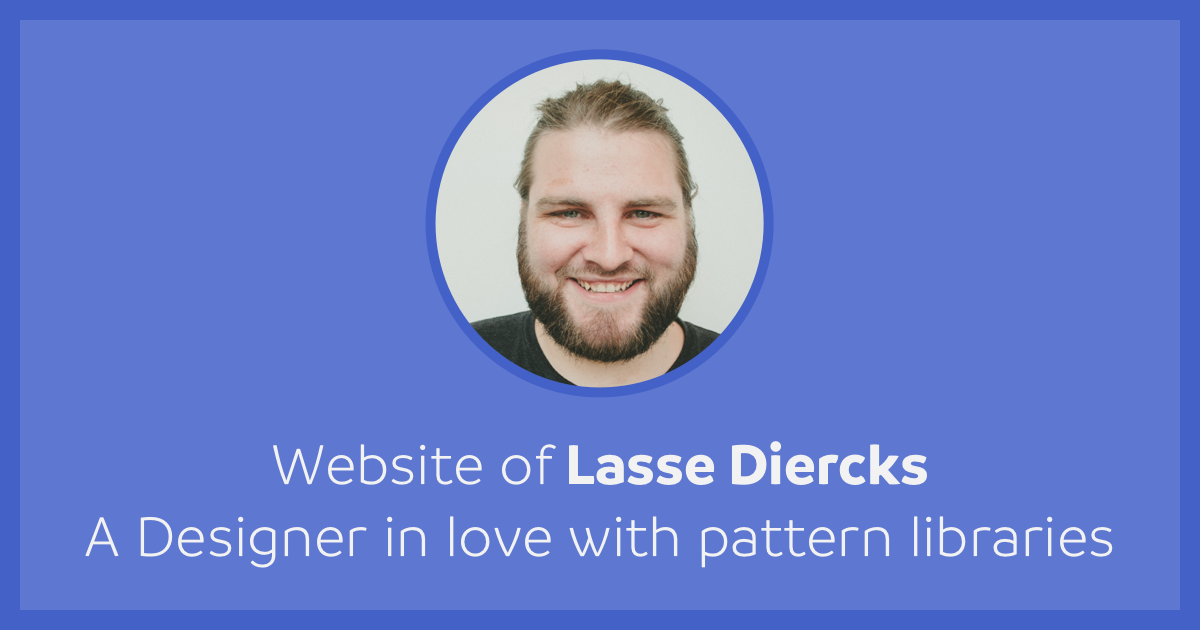
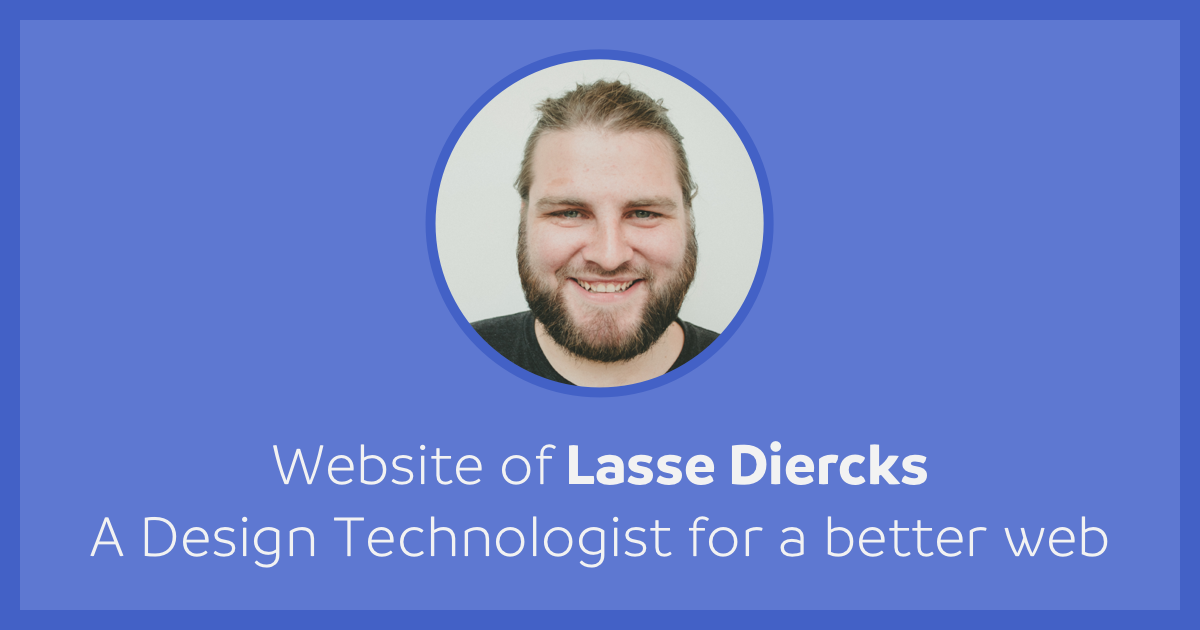
https://open.spotify.com/track/4NEHlq4GzG6VoLWpho0pIB

Changed region(s): [[0.0617, 0.8143, 0.925, 0.9048]]

diff --git a/index.html b/index.html
@@ -25,12 +25,12 @@ check it out here: http://lassediercks.github.io/design
   <meta name="viewport" content="width=device-width, initial-scale=1">
   <meta name="theme-color" content="#4361C6">
 
-  <title>Lasse Diercks | Designer</title>
-  <meta property="og:site_name" content="Lasse Diercks | Designer"/>
-  <meta property="og:title" content="Lasse Diercks | Designer"/>
+  <title>Lasse Diercks | Design Technologist</title>
+  <meta property="og:site_name" content="Lasse Diercks | Design Technologist"/>
+  <meta property="og:title" content="Lasse Diercks | Design Technologist"/>
 
-  <meta name="description" content="Designer with a love for pattern libraries.">
-  <meta property="og:description" content="Designer with a love for pattern libraries."/>
+  <meta name="description" content="Design Technologist working for a better web.">
+  <meta property="og:description" content="Design Technologist working for a better web."/>
   <meta property="og:image" content="http://lassediercks.de/img/open-graph.png?1">
   <meta property="og:image:width" content="1200">
   <meta property="og:image:height" content="630">
@@ -42,7 +42,7 @@ check it out here: http://lassediercks.github.io/design
   <meta name="twitter:image:width" content="750" />
   <meta name="twitter:image:height" content="560" />
   <meta name="twitter:title" content="Lasse Diercks" />
-  <meta name="twitter:description" content="Designer with a love for pattern libraries." />
+  <meta name="twitter:description" content="Design Technologist working for a better web." />
   <meta name="twitter:image" content="http://lassediercks.de/img/twitter.png" />
 
 
@@ -79,29 +79,28 @@ check it out here: http://lassediercks.github.io/design
   <a href="index.html#work" class="ld-topbar__item">Work</a>
   <a href="index.html#expertise" class="ld-topbar__item">Expertise</a>
   <a href="index.html#resume" class="ld-topbar__item">Resume</a>
-  <a href="mailto:hire@lassediercks.de" class="ld-topbar__item hld-cta">Contact</a>
+  <a href="mailto:hire@lassediercks.de?subject=Let's make the internet better, together." class="ld-topbar__item hld-cta">Hire me</a>
 </nav>
 
 
   <header class="hld-header">
     <img class="ld-avatar" src="http://lassediercks.github.io/design/images/profile-square_500.png" alt="A picture of a smiling Lasse Diercks">
     <h1 class="ld-headline">Lasse Diercks</h1>
-    <span class="">Designer | Hamburg, Germany<span class="print"> hire@lassediercks.de</span></span>
+    <span class="">Design Technologist | Hamburg, Germany<span class="print"> hire@lassediercks.de</span></span>
   </header>
 
   <main class="hld-content">
     <section class="hld-section" id="about">
-      <h2 class="ld-statement">I combine design thinking and technology to create consistent interfaces</h2>
+      <h2 class="ld-statement">I combine design thinking and technology to create awesome experiences</h2>
       <br><br>
       <p class="ld-paragraph ld-paragraph--centered">
-        I'm a Designer, I'm here to solve problems.
+        I'm here to solve problems.
         <br><br>
         My journey has taught me why prototyping is important, how to create kick-ass icons and what it's like to be a product owner.
         <br><br>
         5 Years at
         <a href="http://www.jimdo.com" class="ld-link">Jimdo, a website builder in Hamburg</a>, provided me with a learning focused and continuous-improvement mindset. When working on an Interface that is used to build websites you learn alot about almost every inch of the internet.
-        <br><br>We came a long way from tables and inline styling. Today, the technology allows us to create pattern-libraries that help us achieve behaviour, design and code consistency.
-        I want to build pattern-libraries for performant, usable and accessible Interfaces and would love to work inside a team that needs a helping hand with that.
+        <br><br>We came a long way from tables and inline styling. Today we create prototypes to communicate ideas, design-systems to achieve behaviour, design and code consistency and codepens to experiment with a few lines of code. I want to help designers with my technical point of view and developers with my design expertise to create awesome experiences.
         <br><br>
         Take a look around here and if you also think I add value to your product, <a href="mailto:hire@lassediercks.de" class="ld-link screen">let's get to know each other.</a> <span class="print">write a mail at hire@lassediercks.de</span>
       </p>
@@ -204,7 +203,7 @@ check it out here: http://lassediercks.github.io/design
       <h3 class="ld-headline">The next awesome Thing-Im-Proud-Of™</h3>
         <p class="ld-paragraph ld-pagraph--centered">Do you need some experienced hands on your pattern-library or need help creating one?
         </p>
-        <a href="mailto:hire@lassediercks.de" class="ld-button hld-cta">Drop Me A Mail</a>
+        <a href="mailto:hire@lassediercks.de?subject=Let's make the internet better, together." class="ld-button hld-cta">Hire me</a>
 
     </section>
 
@@ -310,10 +309,10 @@ check it out here: http://lassediercks.github.io/design
 
   <div class="ld-call-and-action hld-footer__cta">
     <div class="ld-call-and-action__text">
-      <h3 class="ld-call-and-action__title">Want me on your Team?</h3>
-      <h4 class="ld-call-and-action__subtitle">I'm looking for remote projects</h4>
+      <h3 class="ld-call-and-action__title">Are you building the web?</h3>
+      <h4 class="ld-call-and-action__subtitle">I'm looking for freelance projects</h4>
     </div>
-    <a href="mailto:hire@lassediercks.de" class="ld-call-and-action__button ld-button hld-cta">Get In Touch</a>
+    <a href="mailto:hire@lassediercks.de?subject=Let's make the internet better, together." class="ld-call-and-action__button ld-button hld-cta">Hire me</a>
   </div>
   <div class="ld-call-and-action print">
     <div class="ld-call-and-action__text">

diff --git a/icons.html b/icons.html
@@ -24,12 +24,12 @@ check it out here: http://lassediercks.github.io/design
   <meta name="viewport" content="width=device-width, initial-scale=1">
   <meta name="theme-color" content="#4361C6">
 
-  <title>Lasse Diercks | Designer</title>
-  <meta property="og:site_name" content="Lasse Diercks | Designer"/>
-  <meta property="og:title" content="Lasse Diercks | Designer"/>
+  <title>Lasse Diercks | Design Technologist</title>
+  <meta property="og:site_name" content="Lasse Diercks | Design Technologist"/>
+  <meta property="og:title" content="Lasse Diercks | Design Technologist"/>
 
-  <meta name="description" content="Designer with a love for pattern libraries.">
-  <meta property="og:description" content="Designer with a love for pattern libraries."/>
+  <meta name="description" content="Design Technologist working for a better web.">
+  <meta property="og:description" content="Design Technologist working for a better web."/>
   <meta property="og:image" content="http://lassediercks.de/img/open-graph.png?1">
   <meta property="og:image:width" content="1200">
   <meta property="og:image:height" content="630">
@@ -41,7 +41,7 @@ check it out here: http://lassediercks.github.io/design
   <meta name="twitter:image:width" content="750" />
   <meta name="twitter:image:height" content="560" />
   <meta name="twitter:title" content="Lasse Diercks" />
-  <meta name="twitter:description" content="Designer with a love for pattern libraries." />
+  <meta name="twitter:description" content="Design Technologist working for a better web." />
   <meta name="twitter:image" content="http://lassediercks.de/img/twitter.png" />
 
 
@@ -77,7 +77,7 @@ check it out here: http://lassediercks.github.io/design
   <a href="index.html#work" class="ld-topbar__item">Work</a>
   <a href="index.html#expertise" class="ld-topbar__item">Expertise</a>
   <a href="index.html#resume" class="ld-topbar__item">Resume</a>
-  <a href="mailto:hire@lassediercks.de" class="ld-topbar__item hld-cta">Contact</a>
+  <a href="mailto:hire@lassediercks.de?subject=Let's make the internet better, together." class="ld-topbar__item hld-cta">Hire me</a>
 </nav>
 
 
@@ -175,10 +175,10 @@ check it out here: http://lassediercks.github.io/design
 
   <div class="ld-call-and-action hld-footer__cta">
     <div class="ld-call-and-action__text">
-      <h3 class="ld-call-and-action__title">Want me on your Team?</h3>
-      <h4 class="ld-call-and-action__subtitle">I'm looking for remote projects</h4>
+      <h3 class="ld-call-and-action__title">Are you building the web?</h3>
+      <h4 class="ld-call-and-action__subtitle">I'm looking for freelance projects</h4>
     </div>
-    <a href="mailto:hire@lassediercks.de" class="ld-call-and-action__button ld-button hld-cta">Get In Touch</a>
+    <a href="mailto:hire@lassediercks.de?subject=Let's make the internet better, together." class="ld-call-and-action__button ld-button hld-cta">Hire me</a>
   </div>
   <div class="ld-call-and-action print">
     <div class="ld-call-and-action__text">

diff --git a/ui-library.html b/ui-library.html
@@ -24,12 +24,12 @@ check it out here: http://lassediercks.github.io/design
   <meta name="viewport" content="width=device-width, initial-scale=1">
   <meta name="theme-color" content="#4361C6">
 
-  <title>Lasse Diercks | Designer</title>
-  <meta property="og:site_name" content="Lasse Diercks | Designer"/>
-  <meta property="og:title" content="Lasse Diercks | Designer"/>
+  <title>Lasse Diercks | Design Technologist</title>
+  <meta property="og:site_name" content="Lasse Diercks | Design Technologist"/>
+  <meta property="og:title" content="Lasse Diercks | Design Technologist"/>
 
-  <meta name="description" content="Designer with a love for pattern libraries.">
-  <meta property="og:description" content="Designer with a love for pattern libraries."/>
+  <meta name="description" content="Design Technologist working for a better web.">
+  <meta property="og:description" content="Design Technologist working for a better web."/>
   <meta property="og:image" content="http://lassediercks.de/img/open-graph.png?1">
   <meta property="og:image:width" content="1200">
   <meta property="og:image:height" content="630">
@@ -41,7 +41,7 @@ check it out here: http://lassediercks.github.io/design
   <meta name="twitter:image:width" content="750" />
   <meta name="twitter:image:height" content="560" />
   <meta name="twitter:title" content="Lasse Diercks" />
-  <meta name="twitter:description" content="Designer with a love for pattern libraries." />
+  <meta name="twitter:description" content="Design Technologist working for a better web." />
   <meta name="twitter:image" content="http://lassediercks.de/img/twitter.png" />
 
 
@@ -77,7 +77,7 @@ check it out here: http://lassediercks.github.io/design
   <a href="index.html#work" class="ld-topbar__item">Work</a>
   <a href="index.html#expertise" class="ld-topbar__item">Expertise</a>
   <a href="index.html#resume" class="ld-topbar__item">Resume</a>
-  <a href="mailto:hire@lassediercks.de" class="ld-topbar__item hld-cta">Contact</a>
+  <a href="mailto:hire@lassediercks.de?subject=Let's make the internet better, together." class="ld-topbar__item hld-cta">Hire me</a>
 </nav>
 
 
@@ -173,10 +173,10 @@ check it out here: http://lassediercks.github.io/design
 
   <div class="ld-call-and-action hld-footer__cta">
     <div class="ld-call-and-action__text">
-      <h3 class="ld-call-and-action__title">Want me on your Team?</h3>
-      <h4 class="ld-call-and-action__subtitle">I'm looking for remote projects</h4>
+      <h3 class="ld-call-and-action__title">Are you building the web?</h3>
+      <h4 class="ld-call-and-action__subtitle">I'm looking for freelance projects</h4>
     </div>
-    <a href="mailto:hire@lassediercks.de" class="ld-call-and-action__button ld-button hld-cta">Get In Touch</a>
+    <a href="mailto:hire@lassediercks.de?subject=Let's make the internet better, together." class="ld-call-and-action__button ld-button hld-cta">Hire me</a>
   </div>
   <div class="ld-call-and-action print">
     <div class="ld-call-and-action__text">
